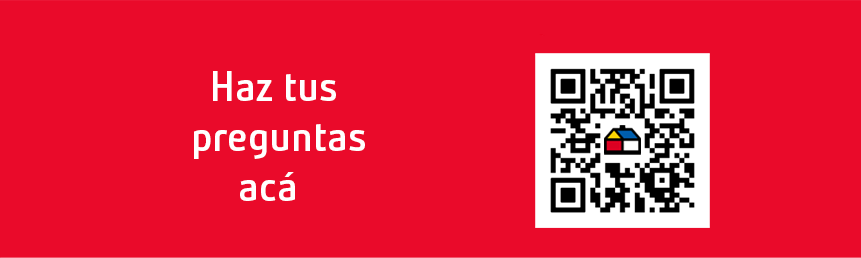
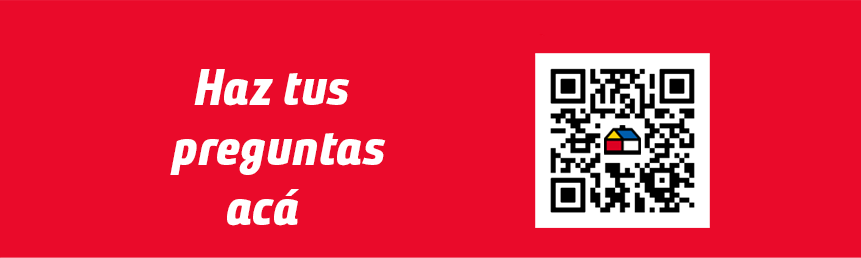
update video autoplay

Changed region(s): [[0.1812, 0.4961, 0.453, 0.8992], [0.2114, 0.2481, 0.4228, 0.4341]]

diff --git a/index.html b/index.html
@@ -15,12 +15,12 @@
 
   <!-- ✅ Mobile Navbar -->
   <nav class="mobile-navbar d-block d-md-none navbar py-3 px-3">
-    <div class=" d-flex justify-content-between align-items-center position-relative">
+    <div class="d-flex justify-content-between align-items-center position-relative">
       <img src="./images/page3/home-logo.png" alt="Logo" class="navbar-logo" />
       <img src="./images/page3/logo.png" alt="Slogan" class="navbar-slogan" />
     </div>
   </nav>
-
+  
   <!-- ✅ Desktop Navbar -->
   <div class="custom-navbar">
     <div class="navbar-left">
@@ -31,42 +31,35 @@
         <img src="./images/page3/home-logo.png" alt="Right Logo" class="me-4 mb-2 h-12 w-auto" />
         <h1 class="mb-1 fw-bold fs-1">SODIMAC</h1>
       </div>
-      <p class="mb-0 fs-4"> LUNES 12 DE MAYO / 09.00 HRS / WWW.ENCUENTROSODIMAC.CL
-      </p>
+      <p class="mb-0 fs-4"> LUNES 12 DE MAYO / 09.00 HRS / WWW.ENCUENTROSODIMAC.CL </p>
     </div>
   </div>
 
   <!-- ✅ Desktop Layout -->
-  <div class="container-fluid d-none d-md-block mt-5 mb-0">
+  <div class="container-fluid d-none d-md-block mb-0">
     <div class="row">
       <div class="col-md-3 d-flex align-items-center justify-content-center mt-5 desktop-only">
         <img src="./images/page3/left-red-solid.png" alt="Left Logo" class="img-fluid" />
       </div>
 
       <div class="col-md-6 d-flex flex-column align-items-center mt-5">
-        <div class="d-flex flex-row mb-4 justify-content-between align-items-center w-100 px-4">
-          <h1 class="fs-4 text-blueclass d-block d-md-none m-0">Juntos, lo hacemos posible</h1>
-
-          <!-- ✅ Hoverable Image -->
+        <div class="d-flex flex-row mb-4 justify-content-between align-items-center w-100 px-0">
           <div class="ms-auto">
-            <a href="#video-section" class="clickable-image">
+            <a href="https://www.usmansultan.site/" class="clickable-image" target="_blank" rel="noopener noreferrer">
               <img src="./images/page3/small-object-video.png" alt="Decorative" class="img-fluid d-block mx-auto" />
             </a>
           </div>
         </div>
 
-        <!-- ✅ Video with Play Button -->
+        <!-- Desktop video -->
         <div class="video-container position-relative" id="video-section">
           <img src="./images/page3/frame2.png" alt="Frame" class="video-frame" />
-          <video id="sodimacVideo" playsinline class="w-100">
-
-            <!-- place video here  -->
+          <video class="w-100" controls autoplay muted loop playsinline>
             <source src="./images/page3/video/Conoce Sodimac.mp4" type="video/mp4" />
             Your browser does not support the video tag.
           </video>
-          <button id="playButton" class="custom-play-btn">
-            <img src="./images/page3/play.png" alt="Play" class="play-icon">
-          </button>
+          
+          
         </div>
       </div>
 
@@ -76,62 +69,53 @@
     </div>
   </div>
 
-<!-- ✅ Mobile Layout -->
-<div class="mobile-layout d-block d-md-none">
-  <div class="mobile-header-column">
-    <h1 class="fs-4 text-blueclass text-center">Juntos, lo hacemos posible</h1>
-    <div class="ms-auto">
-      <a href="https://www.google.com/" class="clickable-image" target="_blank">
-        <img src="./images/page3/small-object-video.png" alt="Decorative" class="img-fluid d-block mx-auto" />
-      </a>
+  <!-- ✅ Mobile Layout -->
+  <div class="mobile-layout d-block d-md-none">
+    <div class="mobile-header-column">
+      <h1 class="fs-4 text-blueclass text-center semi-bold"><span class="extra-bold">Juntos,</span> lo hacemos posible</h1>
+      <div class="ms-auto">
+        <a href="https://www.google.com/" class="clickable-image" target="_blank">
+          <img src="./images/page3/small-object-video.png" alt="Decorative" class="img-fluid d-block mx-auto" />
+        </a>
+      </div>
     </div>
-  </div>
 
-  <div class="mobile-video" id="video-section-mobile">
-    <div class="video-container position-relative">
-      <img src="./images/page3/frame2.png" alt="Frame" class="video-frame" />
-      <video id="sodimacVideoMobile" playsinline autoplay="true" class="w-100">
-                    <!-- place video here  -->
-
-        <source src="./images/page3/video/Conoce Sodimac.mp4" type="video/mp4" />
-        Your browser does not support the video tag.
-      </video>
-      <button id="playButtonMobile" class="custom-play-btn">
-        <img src="./images/page3/play.png" alt="Play" class="play-icon">
-      </button>
+    <div class="mobile-video" id="video-section-mobile">
+      <div class="video-container position-relative">
+        <img src="./images/page3/frame2.png" alt="Frame" class="video-frame" />
+        <video
+          id="mobileVideo"
+          class="w-100"
+          controls
+          autoplay
+          muted
+          loop
+          playsinline
+          webkit-playsinline
+        >
+          <source src="./images/page3/video/Conoce Sodimac.mp4" type="video/mp4" />
+          Your browser does not support the video tag.
+        </video>
+      </div>
     </div>
+    
+
+    <div class="mobile-left-section"></div>
   </div>
-
-  <div class="mobile-left-section"></div>
-</div>
-
 
   <!-- ✅ Mobile Footer -->
   <footer class="mobile-footer d-block d-md-none text-white text-center py-3 px-0">
     <div class="row align-items-center justify-content-center">
-      <div class="col-auto">
-        <img src="./images/page3/home-logo.png" alt="Logo" class="logo-img">
+      <div class="col-auto p-0 m-0">
+        <img src="./images/page3/home-logo.png" alt="Logo" class="logo-img mb-2" />
       </div>
-      <div class="col-auto text-white">
-        <p class="m-0 fs-3 fs-md-4 fw-bold">Sodimac</p>
+      <div class="col-auto text-white p-1">
+        <p class="m-0 fs-5 fs-md-4 bold-font pt-1">
+          SODIMAC<sup class=" align-text-bottom ">®</sup>
+        </p>
       </div>
     </div>
   </footer>
-
-  <!-- ✅ JS Logic for Video Play -->
-  <script>
-    document.getElementById("playButton")?.addEventListener("click", function () {
-      const video = document.getElementById("sodimacVideo");
-      video.play();
-      this.style.display = "none";
-    });
-
-    document.getElementById("playButtonMobile")?.addEventListener("click", function () {
-      const video = document.getElementById("sodimacVideoMobile");
-      video.play();
-      this.style.display = "none";
-    });
-  </script>
 
   <!-- Bootstrap JS -->
   <script src="https://cdn.jsdelivr.net/npm/bootstrap@5.3.3/dist/js/bootstrap.bundle.min.js"></script>

diff --git a/page3Styles.css b/page3Styles.css
@@ -1,13 +1,46 @@
 @font-face {
-  font-family: 'BundayClean';
+  font-family: 'BundayClean-bold';
   src: url('./font/BundayClean-Bold.ttf') format('truetype');
   font-weight: normal;
   font-style: normal;
 }
 
-body, h1, h2, h3, p, input, button, label, .form-control {
-  font-family: 'BundayClean', sans-serif;
+@font-face {
+  font-family: 'BundayClean-ExBold';
+  src: url('./font/Buntype\ -\ BundayClean-ExBoldUpIt.otf') format('truetype');
+  font-weight: normal;
+  font-style: normal;
 }
+
+@font-face {
+  font-family: 'BundayClean-semiBold';
+  src: url('./font/Buntype\ -\ BundayClean-SeBold.otf') format('truetype');
+  font-weight: normal;
+  font-style: normal;
+}
+
+@font-face {
+  font-family: 'BundayClean-seLighIt';
+  src: url('./font/Buntype\ -\ BundayClean-SeLighIt.otf') format('truetype');
+  font-weight: normal;
+  font-style: normal;
+}
+
+
+
+.bold-font {
+  font-family: 'BundayClean-bold', sans-serif;
+}
+.extra-bold {
+  font-family: 'BundayClean-ExBold', sans-serif;
+}
+.semi-Bold {
+  font-family: 'BundayClean-semiBold', sans-serif;
+}
+.semi-lignt {
+  font-family: 'BundayClean-seLighIt', sans-serif;
+}
+
 
 html, body {
   height: 100%;
@@ -119,9 +152,7 @@ body {
   object-fit: contain;
 }
 
-.text-blueclass{
-  color: #076EBF;
-}
+
 
 /* Video Container */
 .video-container {
@@ -137,7 +168,7 @@ body {
   width: 95%;
   height: auto;
   object-fit: cover;
-  border-radius: 12px;
+  /* border-radius: 12px; */
   position: relative;
   z-index: 2;
 }
@@ -174,21 +205,6 @@ body {
 }
 
 
-.custom-play-btn {
-  position: absolute;
-  top: 50%;
-  left: 50%;
-  transform: translate(-50%, -50%);
-  background: transparent;
-  border: none;
-  cursor: pointer;
-  z-index: 3;
-}
-
-.play-icon {
-  width: 80px;
-  height: 80px;
-}
 
 
 /* Responsive Rules */
@@ -228,6 +244,25 @@ body {
   }
 
 
+  .MobImageSize{
+    width: 100% !important;
+    height: auto !important;
+  }
+
+  .mute-btn {
+    position: absolute;
+    top: 5px;
+    right: 5px;
+    background-color: rgba(0, 0, 0, 0.5);
+    color: white;
+    border: none;
+    padding: 5px;
+    border-radius: 50%;
+    font-size: 12px;
+    cursor: pointer;
+    z-index: 2;
+  }
+
   .mobile-video {
     width: 100%;
     /* padding: 1rem; */
@@ -249,21 +284,34 @@ body {
 
   .mobile-header-column {
     display: flex;
-    flex-direction: column;
+    flex-direction: row;
     align-items: center;
     padding: 0 1rem;
     margin-top: 1rem;
+    gap: 1rem;
   }
 
   .mobile-header-column h1 {
-    font-size: 1.2rem;
+    font-size: 1rem !important;
     margin-bottom: 0.5rem;
     text-align: center;
+    width: 80% !important;
+    color: #076EBF;
+    white-space: nowrap;
+    /* font-family: 'BundayClean-ExBold', sans-serif !important; */
+
   }
 
+  .extra-bold-font{
+    font-family: 'BundayClean-ExBold', sans-serif !important;
+
+  }
+
+
   .mobile-header-column img {
-    height: 40px;
+    height: auto;
     width: auto;
+    
   }
 
   .desktop-only {
